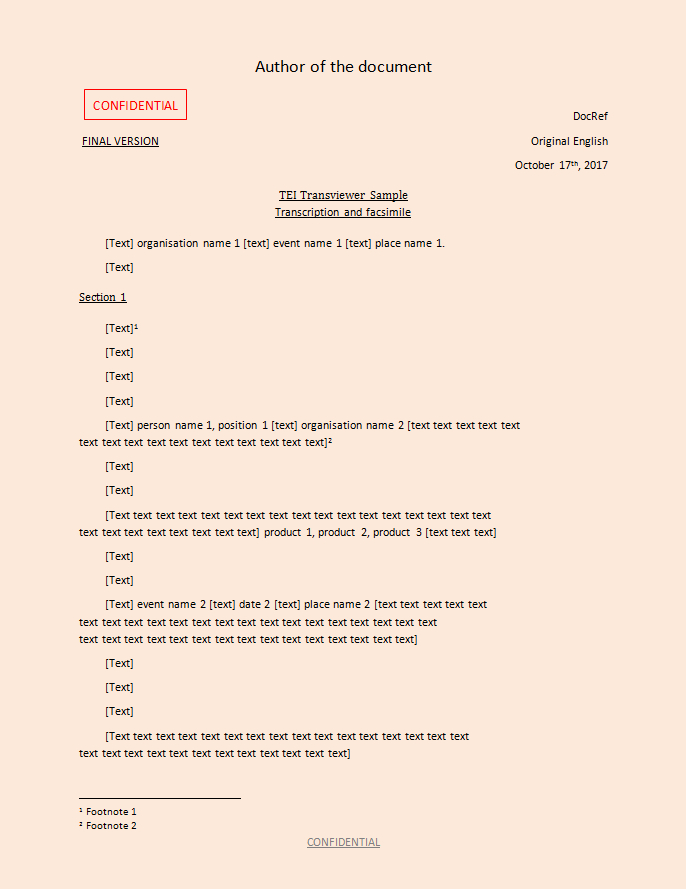
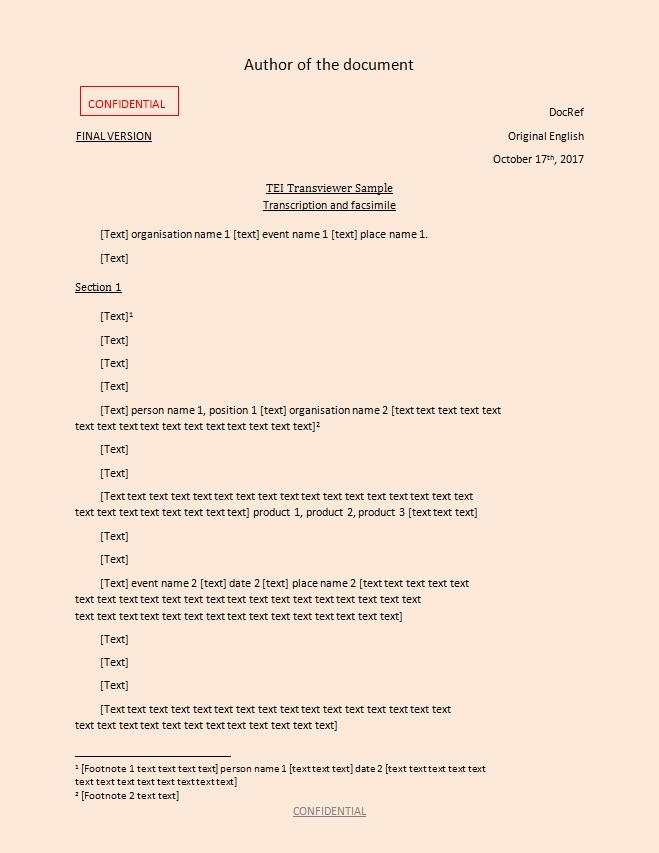
issue #5: fix issue with line breaks in footnotes

diff --git a/data/sample_transcr-facs/html/transviewer_sample_3.html b/data/sample_transcr-facs/html/transviewer_sample_3.html
@@ -1,4 +1,6 @@
-<!DOCTYPE html><html xmlns="http://www.w3.org/1999/xhtml" lang="en"><head><meta http-equiv="Content-Type" content="text/html; charset=UTF-8"></meta><title>TEI Transviewer Sample. Transcription and facsimile</title><link xmlns:tei="http://www.tei-c.org/ns/1.0" href="../../../transviewer/styles/transviewer.css" rel="stylesheet" type="text/css"></link><link xmlns:tei="http://www.tei-c.org/ns/1.0" href="../../../transviewer/templates/css/core/transcript_core.css" rel="stylesheet" type="text/css"></link><link id="specificCSS_dipl" href="../../../transviewer/templates/css/plugins/sample_transcr-facs/transcript_specific_dipl.css" rel="stylesheet" type="text/css" title="diplomatic"></link><link id="specificCSS_lin" href="../../../transviewer/templates/css/plugins/sample_transcr-facs/transcript_specific_lin.css" rel="stylesheet alternate" type="text/css" title="linear"></link><style xmlns:tei="http://www.tei-c.org/ns/1.0" type="text/css">html, body {height:100%; margin:0; overflow: hidden;</style></head><body class="sample" id="transviewer_sample_3"><div class="content-wrapper"><section id="BookReader" class="doc-part-fac"><img width="686" height="889" data-src="../media/images/transviewer-sample_3_001.jpg" src="#"></img><img width="686" height="882" data-src="../media/images/transviewer-sample_3_002.jpg" src="#"></img><img width="687" height="888" data-src="../media/images/transviewer-sample_3_003.jpg" src="#"></img></section><section class="doc-part-text sample"><div id="text" class="text_img"><div class="transcript"><br class="change_page" id="page_1" /><span class="header corresp§doc_auth">Author of the document</span><br /><span class="header corresp§confid_stamp" style="color: red">CONFIDENTIAL</span><br /><span class="header corresp§doc_vers">FINAL VERSION</span><br /><span class="header corresp§doc_ref">DocRef</span><br /><span class="header corresp§orig_lang">Original English</span><br /><span class="header corresp§orig_date"><span class="date">October 17<sup>th</sup>, 2017</span></span><br /><h1>TEI Transviewer Sample</h1><h1>Transcription and facsimile</h1><p>[Text] <span class="name type§org">organisation name 1</span> [text] <span class="name type§event">event name 1</span> [text] <span class="name type§place">place name 1</span>.</p><p>[Text]</p><div class="transcript"><h2>Section 1</h2><p>[Text]<sup><a class="noteAnchor" href="#fn1" id="na1">1</a></sup></p><p>[Text]</p><p>[Text]</p><p>[Text]</p><p>[Text] <span class="name type§person">person name 1</span>, <span class="name type§function">position 1</span> [text] <span class="name type§org">organisation name 2</span> [text text text text text <br class="line_break_del" />text text text text text text text text text text text]<sup><a class="noteAnchor" href="#fn2" id="na2">2</a></sup></p><p>[Text]</p><p>[Text]</p><p>[Text text text text text text text text text text text text text text text text text <br class="line_break_del" />text text text text text text text text] <span class="name type§product">product 1</span>, <span class="name type§product">product 2</span>, <span class="name type§product">product 3</span> [text text text]</p><p>[Text]</p><p>[Text]</p><p>[Text] <span class="name type§event">event name 2</span> [text] <span class="date">date 2</span> [text] <span class="name type§place">place name 2</span> [text text text text text <br class="line_break_del" />text text text text text text text text text text text text text text text text <br class="line_break_del" />text text text text text text text text text text text text text text text]</p><p>[Text]</p><p>[Text]</p><p>[Text]</p><p>[Text text text text text text text text text text text text text text text text <br class="line_break_del" />text text text text text text text text text text text text]</p><hr class="footnote_sep"></hr><span class="footer"><span class="note type§footnote" id="fn1"><sup><a href="#na1">1</a></sup> Footnote 1<br class="line_break_del" /></span><span class="note type§footnote" id="fn2"><sup><a href="#na2">2</a></sup> Footnote 2<br class="line_break_del" /></span></span><br /><span class="footer corresp§confid_stat">CONFIDENTIAL</span><br /></div><div class="transcript"><br class="change_page" id="page_2" /><span class="pageNum">- 2 -</span><br /><span class="header corresp§doc_ref">DocRef</span><br /><h2>Section 2</h2><p>[Text]</p><p>[Text] <span class="name type§person">person name 2</span>, <span class="name type§function">position 2</span>, and <span class="name type§person">person name 1</span> [Text]</p><p>[Text]</p><div class="transcript"><h3>Section 2.1</h3><p>[Text text text text text text text text text text text text text text text text text text <br class="line_break_del" />text text text text text text text text] <span class="name type§product">product 1</span>, <span class="name type§product">product 2</span>, <span class="name type§product">product 4</span> [text text text]</p><p>[Text] <span class="name type§org">organisation name 3</span>, <span class="name type§org">organisation name 4</span>. [text] <span class="name type§org">organisation name 1</span><br class="line_break_del" />[text]</p><p>[Text]</p><p>[Text] <span class="date">date 3</span> [text]</p><p>[Text]</p><p>[Text] <span class="name type§event">event name 3</span> [text] <span class="date">date 2</span> [text]</p><p>[Text]</p><p>[Text]</p><p>[Text]</p></div><div class="transcript"><h3>Section 2.2</h3><p>[Text]</p><p>[Text] <span class="name type§place">place name 3</span> [text] <span class="name type§place">place name 4</span> [text] <span class="name type§person">person name 3</span> [text text text text <br class="line_break_del" />text text text text text text text text text text text text text text text text text <br class="line_break_del" />text text text text text text text]</p><p>[Text]</p><p>[Text]</p><p>[Text] <span class="name type§place">place name 2</span> [text]</p><p>[Text]</p><p>[Text] <span class="date">date 3</span> [text] <span class="name type§event">event name 4</span> [text] </p><p>[Text]</p><p>[Text] <span class="name type§org">organisation name 5</span> [text]</p><p>[Text]</p><span class="footer corresp§confid_stat">CONFIDENTIAL</span><br /></div><div class="transcript"><br class="change_page" id="page_3" /><span class="pageNum">- 3 -</span><br /><span class="header corresp§doc_ref">DocRef</span><br /><h3>Section 3</h3><p>[Text text text text text text text text text text text text text text text text text text <br class="line_break_del" />text text text text text text text text text text text text text text text text text text text text <br class="line_break_del" />text text text text text text text text text text text]</p><p>[Text]</p><p>[Text]</p><p>[Text]</p><p>[Text]</p><span class="footer corresp§confid_stat">CONFIDENTIAL</span><br /></div></div></div></div></section></div><script xmlns:tei="http://www.tei-c.org/ns/1.0" type="text/javascript">
+<!DOCTYPE html><html xmlns="http://www.w3.org/1999/xhtml" lang="en"><head><meta http-equiv="Content-Type" content="text/html; charset=UTF-8"></meta><title>TEI Transviewer Sample. Transcription and facsimile</title><link xmlns:tei="http://www.tei-c.org/ns/1.0" href="../../../transviewer/styles/transviewer.css" rel="stylesheet" type="text/css"></link><link xmlns:tei="http://www.tei-c.org/ns/1.0" href="../../../transviewer/templates/css/core/transcript_core.css" rel="stylesheet" type="text/css"></link><link id="specificCSS_dipl" href="../../../transviewer/templates/css/plugins/sample_transcr-facs/transcript_specific_dipl.css" rel="stylesheet" type="text/css" title="diplomatic"></link><link id="specificCSS_lin" href="../../../transviewer/templates/css/plugins/sample_transcr-facs/transcript_specific_lin.css" rel="stylesheet alternate" type="text/css" title="linear"></link><style xmlns:tei="http://www.tei-c.org/ns/1.0" type="text/css">html, body {height:100%; margin:0; overflow: hidden;</style></head><body class="sample" id="transviewer_sample_3"><div class="content-wrapper"><section id="BookReader" class="doc-part-fac"><img width="686" height="889" data-src="../media/images/transviewer-sample_3_001.jpg" src="#"></img><img width="686" height="882" data-src="../media/images/transviewer-sample_3_002.jpg" src="#"></img><img width="687" height="888" data-src="../media/images/transviewer-sample_3_003.jpg" src="#"></img></section><section class="doc-part-text sample"><div id="text" class="text_img"><div class="transcript"><br class="change_page" id="page_1" /><span class="header corresp§doc_auth">Author of the document</span><br /><span class="header corresp§confid_stamp" style="color: red">CONFIDENTIAL</span><br /><span class="header corresp§doc_vers">FINAL VERSION</span><br /><span class="header corresp§doc_ref">DocRef</span><br /><span class="header corresp§orig_lang">Original English</span><br /><span class="header corresp§orig_date"><span class="date">October 17<sup>th</sup>, 2017</span></span><br /><h1>TEI Transviewer Sample</h1><h1>Transcription and facsimile</h1><p>[Text] <span class="name type§org">organisation name 1</span> [text] <span class="name type§event">event name 1</span> [text] <span class="name type§place">place name 1</span>.</p><p>[Text]</p><div class="transcript"><h2>Section 1</h2><p>[Text]<sup><a class="noteAnchor" href="#fn1" id="na1">1</a></sup></p><p>[Text]</p><p>[Text]</p><p>[Text]</p><p>[Text] <span class="name type§person">person name 1</span>, <span class="name type§function">position 1</span> [text] <span class="name type§org">organisation name 2</span> [text text text text text <br class="line_break_del" />text text text text text text text text text text text]<sup><a class="noteAnchor" href="#fn2" id="na2">2</a></sup></p><p>[Text]</p><p>[Text]</p><p>[Text text text text text text text text text text text text text text text text text <br class="line_break_del" />text text text text text text text text] <span class="name type§product">product 1</span>, <span class="name type§product">product 2</span>, <span class="name type§product">product 3</span> [text text text]</p><p>[Text]</p><p>[Text]</p><p>[Text] <span class="name type§event">event name 2</span> [text] <span class="date">date 2</span> [text] <span class="name type§place">place name 2</span> [text text text text text <br class="line_break_del" />text text text text text text text text text text text text text text text text <br class="line_break_del" />text text text text text text text text text text text text text text text]</p><p>[Text]</p><p>[Text]</p><p>[Text]</p><p>[Text text text text text text text text text text text text text text text text <br class="line_break_del" />text text text text text text text text text text text text]</p><hr class="footnote_sep"></hr><span class="footer"><span class="note type§footnote" id="fn1"><sup><a href="#na1">1</a></sup> [Footnote 1 text text text text] <span class="name type§person">person name 1</span> [text text text] <span class="date">date 2</span> [text text text text text <br class="line_break_del" />text text text text text text text text]
+                  </span><br /><span class="note type§footnote" id="fn2"><sup><a href="#na2">2</a></sup> [Footnote 2 text text]
+                  </span><br /></span><br /><span class="footer corresp§confid_stat">CONFIDENTIAL</span><br /></div><div class="transcript"><br class="change_page" id="page_2" /><span class="pageNum">- 2 -</span><br /><span class="header corresp§doc_ref">DocRef</span><br /><h2>Section 2</h2><p>[Text]</p><p>[Text] <span class="name type§person">person name 2</span>, <span class="name type§function">position 2</span>, and <span class="name type§person">person name 1</span> [Text]</p><p>[Text]</p><div class="transcript"><h3>Section 2.1</h3><p>[Text text text text text text text text text text text text text text text text text text <br class="line_break_del" />text text text text text text text text] <span class="name type§product">product 1</span>, <span class="name type§product">product 2</span>, <span class="name type§product">product 4</span> [text text text]</p><p>[Text] <span class="name type§org">organisation name 3</span>, <span class="name type§org">organisation name 4</span>. [text] <span class="name type§org">organisation name 1</span><br class="line_break_del" />[text]</p><p>[Text]</p><p>[Text] <span class="date">date 3</span> [text]</p><p>[Text]</p><p>[Text] <span class="name type§event">event name 3</span> [text] <span class="date">date 2</span> [text]</p><p>[Text]</p><p>[Text]</p><p>[Text]</p></div><div class="transcript"><h3>Section 2.2</h3><p>[Text]</p><p>[Text] <span class="name type§place">place name 3</span> [text] <span class="name type§place">place name 4</span> [text] <span class="name type§person">person name 3</span> [text text text text <br class="line_break_del" />text text text text text text text text text text text text text text text text text <br class="line_break_del" />text text text text text text text]</p><p>[Text]</p><p>[Text]</p><p>[Text] <span class="name type§place">place name 2</span> [text]</p><p>[Text]</p><p>[Text] <span class="date">date 3</span> [text] <span class="name type§event">event name 4</span> [text] </p><p>[Text]</p><p>[Text] <span class="name type§org">organisation name 5</span> [text]</p><p>[Text]</p><span class="footer corresp§confid_stat">CONFIDENTIAL</span><br /></div><div class="transcript"><br class="change_page" id="page_3" /><span class="pageNum">- 3 -</span><br /><span class="header corresp§doc_ref">DocRef</span><br /><h3>Section 3</h3><p>[Text text text text text text text text text text text text text text text text text text <br class="line_break_del" />text text text text text text text text text text text text text text text text text text text text <br class="line_break_del" />text text text text text text text text text text text]</p><p>[Text]</p><p>[Text]</p><p>[Text]</p><p>[Text]</p><span class="footer corresp§confid_stat">CONFIDENTIAL</span><br /></div></div></div></div></section></div><script xmlns:tei="http://www.tei-c.org/ns/1.0" type="text/javascript">
 				function loadJQueryPlugins() {
 						$.when(
 							
